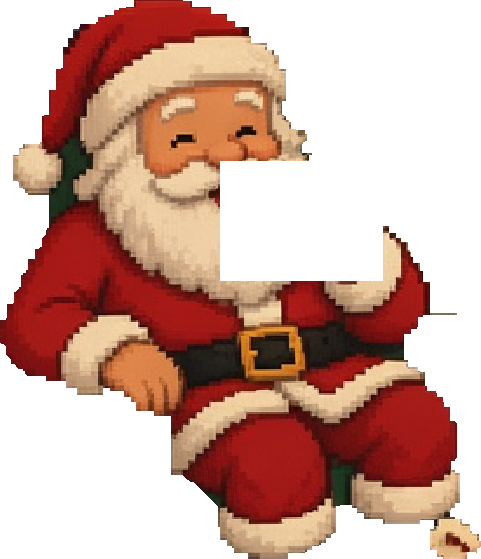
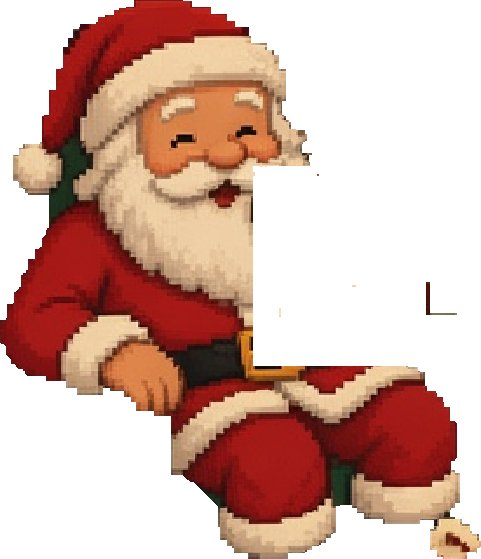
Arm-only cookie sprite, pane-clipped snow, clean cat fills, star restored, layer fixes

Changed region(s): [[0.4366, 0.2737, 0.9044, 0.6691]]

diff --git a/index.html b/index.html
@@ -4,7 +4,7 @@ html,body{margin:0;height:100%;background:#0d0a0a;overflow:hidden}
 .s{position:absolute;left:50%;top:50%;transform:translate(-50%,-50%);width:max(100vw,177.78vh);height:max(56.25vw,100vh);background:url(bg.png) 0 0/100% 100%;image-rendering:pixelated;overflow:hidden}
 @media (max-aspect-ratio:4/3){.s{width:min(100vw,177.78vh);height:min(56.25vw,100vh)}}
 .s>*{position:absolute;pointer-events:none;image-rendering:pixelated}
-#snow{left:5.384%;top:10.526%;width:12.427%;height:26.555%;z-index:6}#snow2{left:78.600%;top:10.526%;width:12.427%;height:26.555%;z-index:6}.wframe,.rfront{z-index:7!important;filter:brightness(.52) saturate(.85)}#night{inset:0;z-index:4;background:radial-gradient(ellipse 34% 52% at 50.6% 50%,rgba(8,12,35,0) 0,rgba(8,12,35,.18) 45%,rgba(8,12,35,.5) 85%,rgba(8,12,35,.58) 100%)}#glow{z-index:5!important}.lt,.gl{z-index:8!important}#fire{z-index:1}.e{z-index:6!important}.lt{width:.45%;height:.8%;margin:-.4% 0 0 -.22%;background:radial-gradient(circle,rgba(255,250,200,.95) 0 25%,rgba(255,210,110,.5) 45%,transparent 70%);z-index:5;animation:tw 2s steps(3) infinite}@keyframes tw{0%,100%{opacity:.15}50%{opacity:1}}.wframe{z-index:2}.santa,.sarm{z-index:3}[class*=stk],[class*=mt]{z-index:2}
+#snow{left:5.384%;top:10.526%;width:12.427%;height:26.555%;z-index:6;-webkit-mask:url(pm1.png) 0 0/100% 100%;mask:url(pm1.png) 0 0/100% 100%}#snow2{left:78.600%;top:10.526%;width:12.427%;height:26.555%;z-index:6;-webkit-mask:url(pm2.png) 0 0/100% 100%;mask:url(pm2.png) 0 0/100% 100%}.wframe,.rfront{z-index:2!important}#night{inset:0;z-index:4;background:radial-gradient(ellipse 34% 52% at 50.6% 50%,rgba(8,12,35,0) 0,rgba(8,12,35,.18) 45%,rgba(8,12,35,.5) 85%,rgba(8,12,35,.58) 100%)}#glow{z-index:5!important}.lt,.gl{z-index:8!important}#fire{z-index:1}.e{z-index:6!important}.lt{width:.45%;height:.8%;margin:-.4% 0 0 -.22%;background:radial-gradient(circle,rgba(255,250,200,.95) 0 25%,rgba(255,210,110,.5) 45%,transparent 70%);z-index:5;animation:tw 2s steps(3) infinite}@keyframes tw{0%,100%{opacity:.15}50%{opacity:1}}.wframe{z-index:2}.santa,.sarm{z-index:3}[class*=stk],[class*=mt]{z-index:2}
 @keyframes cookie{0%,55%,100%{transform:rotate(0)}70%{transform:rotate(6deg)}82%{transform:rotate(-1deg)}88%{transform:rotate(0)}}
 @keyframes stk{0%,100%{transform:rotate(-1.6deg)}50%{transform:rotate(1.6deg)}}
 @keyframes wig{0%,80%,100%{transform:rotate(0)}85%{transform:rotate(-12deg)}90%{transform:rotate(8deg)}95%{transform:rotate(-4deg)}}
@@ -13,7 +13,7 @@ html,body{margin:0;height:100%;background:#0d0a0a;overflow:hidden}
 #fire{left:38.896%;top:33.094%;width:21.983%;height:28.708%;opacity:.9;mix-blend-mode:screen;--m:linear-gradient(90deg,transparent,#000 12%,#000 88%,transparent),linear-gradient(transparent 0,transparent 15%,#000 65%);-webkit-mask-image:var(--m);mask-image:var(--m);-webkit-mask-composite:source-in;mask-composite:intersect}
 .front{z-index:2}.ttail,.tbody,.ktail,.kbody,.khead{z-index:3}
 .santa{left:6.236%;top:31.419%;width:21.579%;height:44.577%;transform-origin:50% 100%;animation:br 4.8s ease-in-out infinite}
-.sarm{left:16.106%;top:44.258%;width:7.313%;height:9.569%;transform-origin:80.4% 90.8%;animation:cookie 6s ease-in-out infinite}
+.sarm{left:17.586%;top:44.657%;width:7.761%;height:15.949%;transform-origin:79.8% 87.5%;animation:cookie 6s ease-in-out infinite}
 .stk0{left:59.578%;top:19.458%;width:4.711%;height:14.035%;transform-origin:49.5% 0.0%;animation:stk 3.20s ease-in-out infinite -0.0s}
 .stk1{left:35.711%;top:19.537%;width:4.800%;height:13.955%;transform-origin:54.2% 0.0%;animation:stk 3.65s ease-in-out infinite -0.7s}
 .stk2{left:48.183%;top:19.537%;width:4.172%;height:13.158%;transform-origin:51.6% 0.0%;animation:stk 4.10s ease-in-out infinite -1.4s}
@@ -24,9 +24,9 @@ html,body{margin:0;height:100%;background:#0d0a0a;overflow:hidden}
 .front{left:38.896%;top:43.062%;width:21.983%;height:18.740%;transform-origin:50% 100%;animation:none}
 .ttail{left:48.362%;top:62.121%;width:4.666%;height:9.250%;transform-origin:47.1% 0.9%;animation:sway 7s ease-in-out infinite}
 .tbody{left:36.205%;top:52.951%;width:16.779%;height:18.421%;transform-origin:50% 100%;animation:br 4.4s ease-in-out infinite}
-.ktail{left:52.355%;top:84.769%;width:6.146%;height:10.766%;transform-origin:5.8% 65.9%;animation:flick 9s ease-in-out infinite}
-.kbody{left:37.954%;top:75.518%;width:20.592%;height:20.574%;transform-origin:50% 100%;animation:br 5.2s ease-in-out infinite -2s}
-.khead{left:37.954%;top:75.518%;width:6.819%;height:20.574%;transform-origin:99.3% 89.5%;animation:bob 11s ease-in-out infinite}
+.ktail{left:52.355%;top:83.812%;width:6.146%;height:11.722%;transform-origin:5.8% 66.0%;animation:flick 9s ease-in-out infinite}
+.kbody{left:37.954%;top:73.764%;width:20.592%;height:22.329%;transform-origin:50% 100%;animation:br 5.2s ease-in-out infinite -2s}
+.khead{left:37.954%;top:73.764%;width:6.819%;height:22.329%;transform-origin:99.3% 89.6%;animation:bob 11s ease-in-out infinite}
 .wframe{left:5.114%;top:10.048%;width:12.965%;height:27.512%;transform-origin:50% 50%;animation:none}
 .rfront{left:76.447%;top:5.582%;width:16.734%;height:36.284%;transform-origin:50% 50%;animation:none}
 @keyframes br{0%,100%{transform:scaleY(1)}50%{transform:scaleY(1.018)}}
